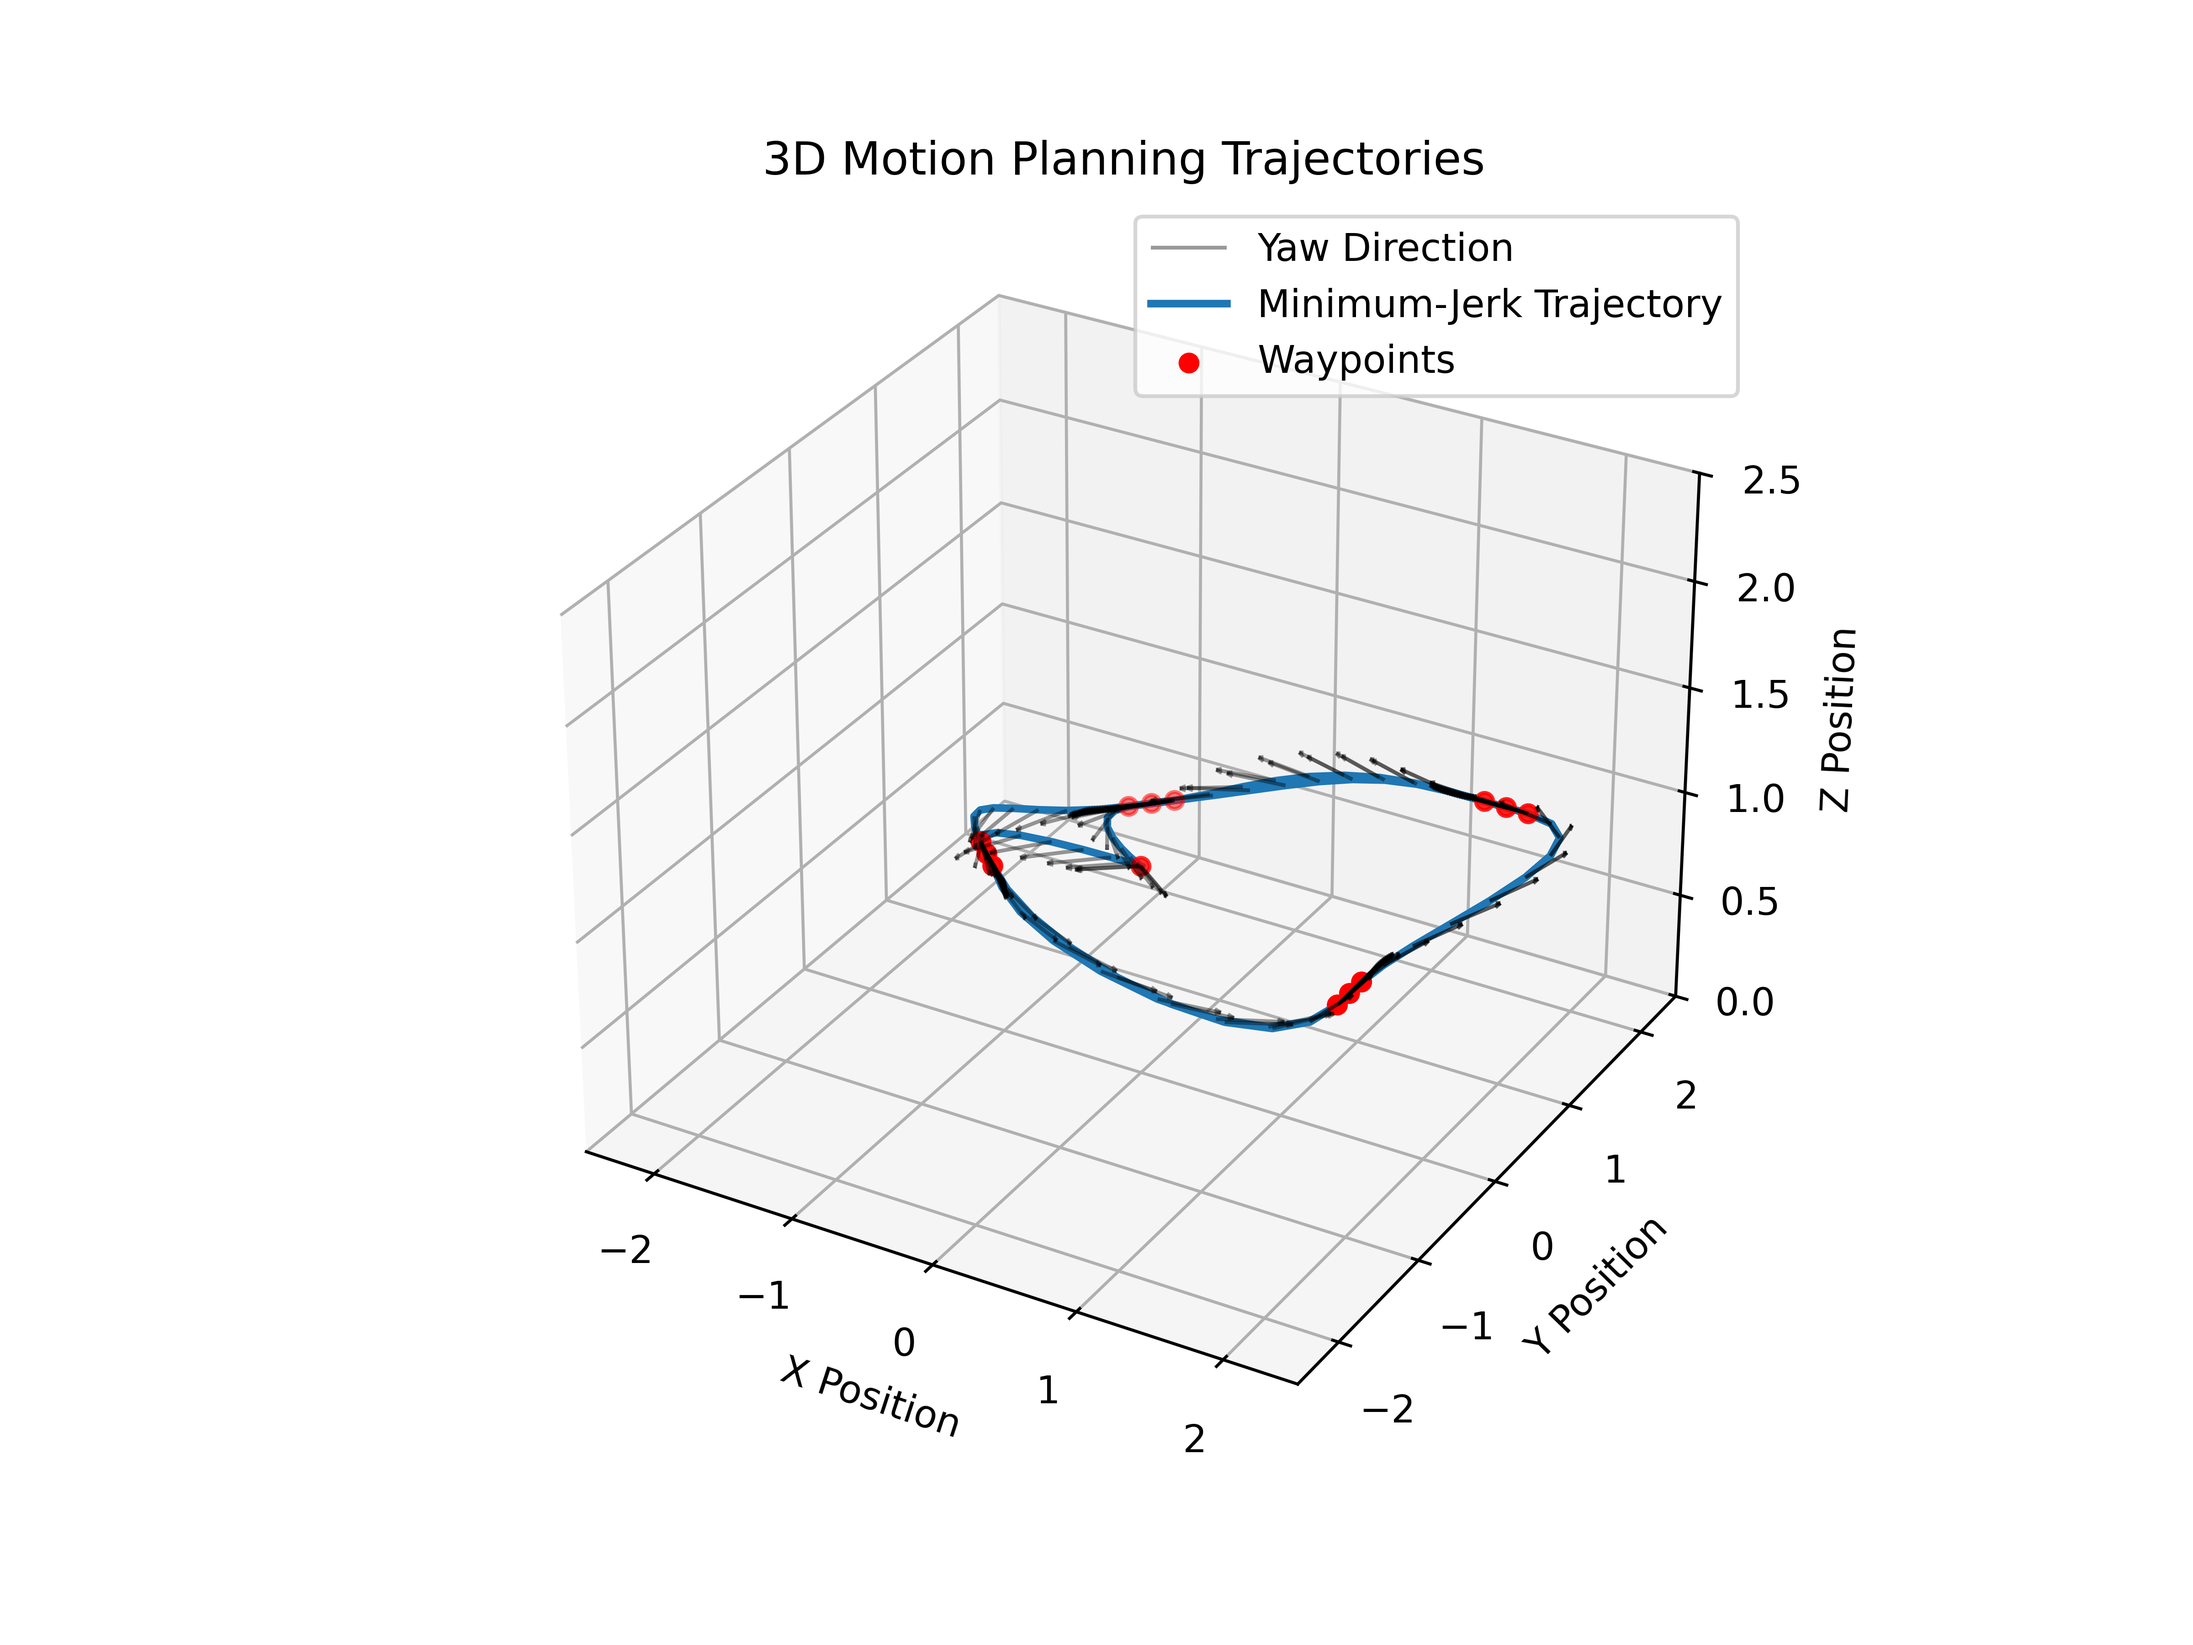
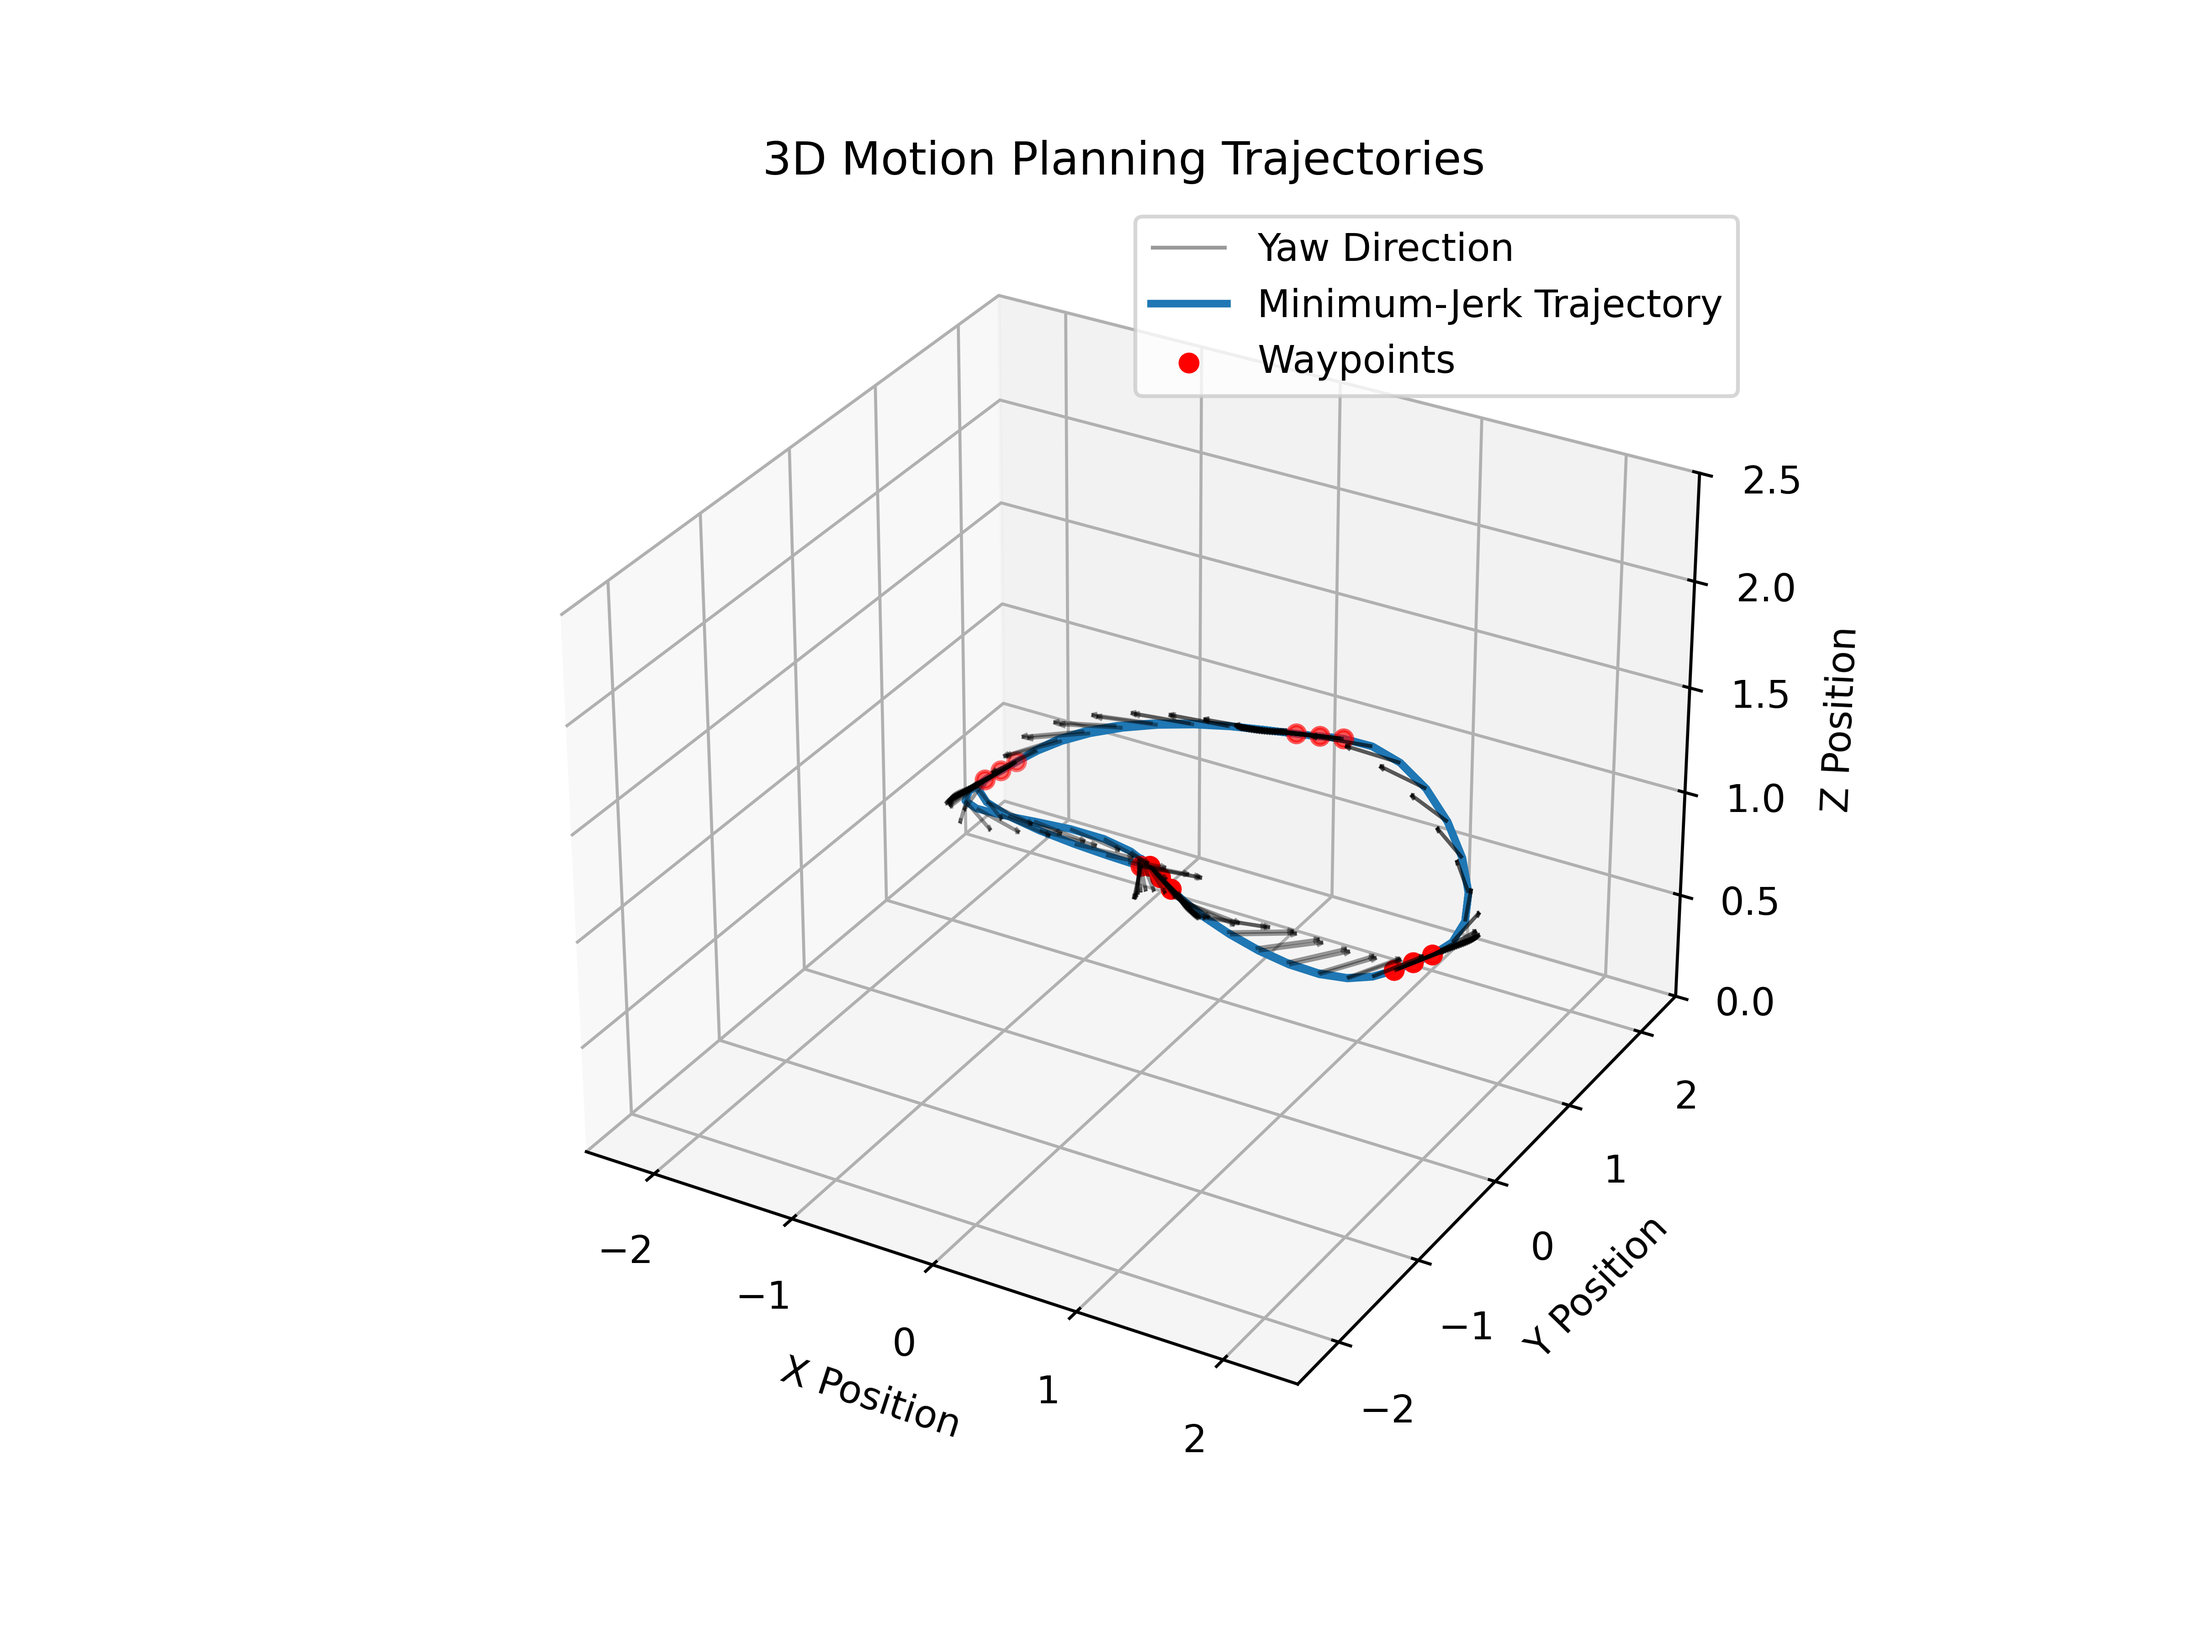
New gates

diff --git a/demo_simple_planner.py b/demo_simple_planner.py
@@ -219,8 +219,8 @@ def visualize_gates(GATES_DATA, best_path=None):
     ax.set_xlabel('X (m)')
     ax.set_ylabel('Y (m)')
     ax.set_zlabel('Z (m)')
-    ax.set_xlim(-4, 4)
-    ax.set_ylim(-4, 4)
+    ax.set_xlim(-2.5, 2.5)
+    ax.set_ylim(-2.5, 2.5)
     ax.set_zlim(-0.5, 2.0)
 
     # Top-down view (X up, Y left)
@@ -244,7 +244,7 @@ def extract_best_path(csv_path="demo_gates_info.csv"):
     wp, gate_ids = csv_to_waypoints(csv_path)    
     best_wp_order, best_wp_indices, best_gate_ids_order, min_cost = sort_wp_min_energy(wp, gate_ids)
 
-    #visualize_gates(GATES_DATA, best_wp_order)
+    visualize_gates(GATES_DATA, best_wp_order)
     print("Best normal points order:", best_wp_order)
     print("Best indices:", best_wp_indices)
     print("Best gate IDs order:", best_gate_ids_order)

diff --git a/demo_run_1.py b/demo_run_1.py
@@ -227,7 +227,7 @@ if __name__ == "__main__":
     # Set maximum velocities
     cf.param.set_value('posCtlPid.xVelMax', '0.5')  # default = 1.0 m/s
     cf.param.set_value('posCtlPid.yVelMax', '0.5')   # default = 1.0 m/s
-    cf.param.set_value('posCtlPid.zVelMax', '0.2')   # default = 0.5 m/s
+    cf.param.set_value('posCtlPid.zVelMax', '0.1')   # default = 0.5 m/s
     time.sleep(0.5)
 
     # Emergency stop thread
